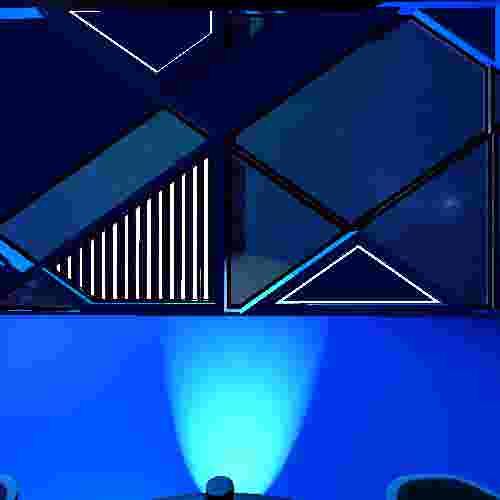
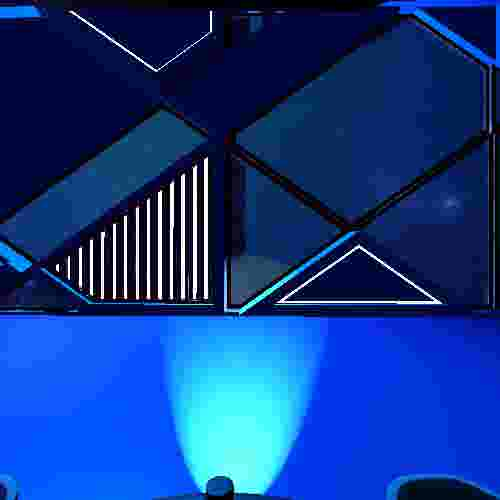
update desc

diff --git a/setup.py b/setup.py
@@ -19,7 +19,7 @@ setup(
     zip_safe=True,
     maintainer='user',
     maintainer_email='user@todo.todo',
-    description='TODO: Package description',
+    description='Autonomous TurtleBot4 navigation checkpoint using /odom and /scan.',
     license='TODO: License declaration',
     extras_require={
         'test': [
